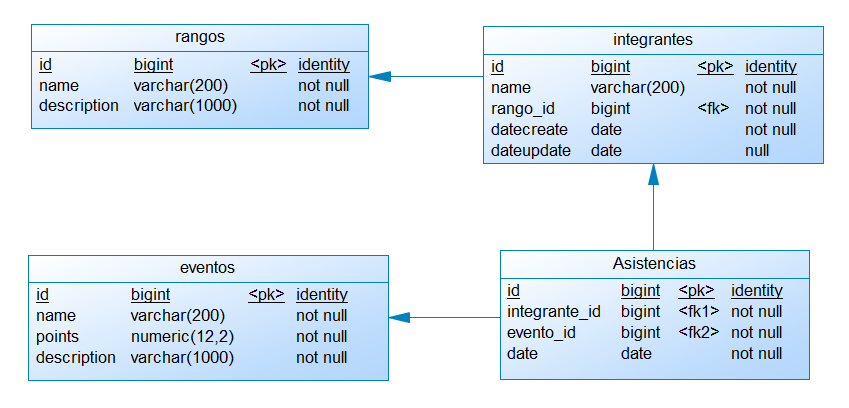
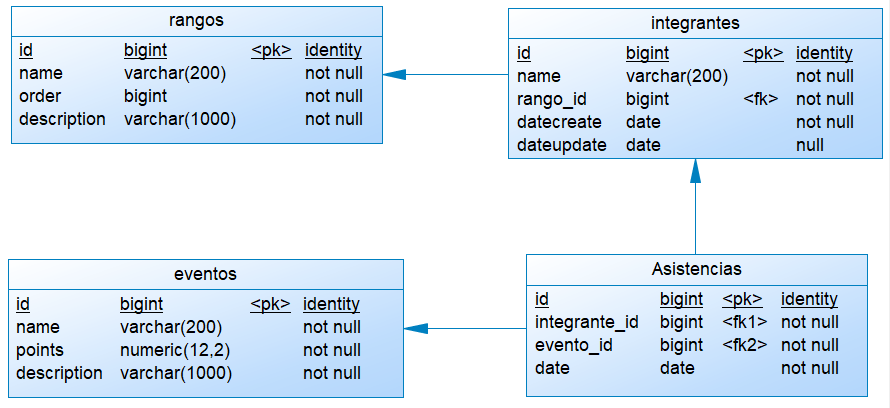
UPDATED Controllers/asistenciaController.py UPDATED Controllers/integranteController.py UPDATED Controllers/rangoController.py UPDATED Helpers/helpers.py UPDATED Models/rangoModel.py UPDATED SQL/avalon-lite.sql UPDATED SQL/avalon.pdm UPDATED SQL/avalon.sql UPDATED SQL/data.sql UPDATED SQL/db_diagram
Modificaciones realizadas para habilitar nueva columna "order" en
la tabla rangos de la base de datos.

Changed region(s): [[0.0, 0.0, 1.0, 0.4706], [0.0, 0.6176, 0.49, 1.0], [0.5819, 0.5882, 0.98, 0.9706]]

diff --git a/Helpers/helpers.py b/Helpers/helpers.py
@@ -145,6 +145,7 @@ class Helpers:
                 "Integrante" : "integrante_name",
                 #"Rango ID" : "integrante_rango_id",
                 #"Rango" : "integrante_rango_name",
+                #"Orden" : "integrante_rango_order",
                 #"Descripción Rango" : "integrante_rango_description",
                 #"Fecha de creación Integrante" : "integrante_datecreate",
                 #"Fecha de modificación Integrante" : "integrante_dateupdate",
@@ -167,6 +168,7 @@ class Helpers:
                 "Nombre" : "name",
                 #"Rango ID" : "rango_id",
                 "Rango" : "rango_name",
+                #"Orden Rango" : "rango_order",
                 #"Descripción Rango" : "rango_description",
                 "Fecha de creación" : "datecreate",
                 "Fecha de modificación" : "dateupdate"
@@ -175,6 +177,7 @@ class Helpers:
             structCtrl[nameCtrl] = {
                 "Id" : "id",
                 "Nombre" : "name",
+                "Orden" : "order",
                 "Descripción" : "description"
             }
         if targets:
@@ -222,6 +225,7 @@ class Helpers:
         elif nameCtrl == "rango":
             structCtrl[nameCtrl] = {"create" : "name"}
             structTargets["name"] = {"type" : str, "fk" : False, "alias" : "Nombre"}
+            structTargets["order"] = {"type" : int, "fk" : False, "alias" : "Orden"}
             structTargets["description"] = {"type" : str, "fk" : False, "alias" : "Descripción"}
         return {"controller" : structCtrl, "targets" : structTargets}
 
@@ -264,11 +268,13 @@ class Helpers:
             if update == "name":
                 structCtrl[nameCtrl] = {"update" : update}
                 structTargets["name"] = {"type" : str, "fk" : False, "alias" : "Nombre"}
+                structTargets["order"] = {"type" : int, "fk" : False, "alias" : "Orden"}
                 structTargets["description"] = {"type" : str, "fk" : False, "alias" : "Descripción"}
             elif update == "id":
                 structCtrl[nameCtrl] = {"update" : update}
                 structTargets["id"] = {"type" : int, "fk" : False, "alias" : "ID"}
                 structTargets["name"] = {"type" : str, "fk" : False, "alias" : "Nombre"}
+                structTargets["order"] = {"type" : int, "fk" : False, "alias" : "Orden"}
                 structTargets["description"] = {"type" : str, "fk" : False, "alias" : "Descripción"}
         return {"controller" : structCtrl, "targets" : structTargets}
 

diff --git a/Services/asistenciaService.py b/Services/asistenciaService.py
@@ -14,6 +14,7 @@ class AsistenciaService:
         "SELECT "\
             "r.id AS integrante_rango_id, "\
             "r.name AS integrante_rango_name, "\
+            "r.order AS integrante_rango_order, "\
             "r.description AS integrante_rango_description, "\
             "i.id as integrante_id, "\
             "i.name AS integrante_name, "\
@@ -41,7 +42,7 @@ class AsistenciaService:
             data = self.__db.execute_query(f"{self.__selectQuery} WHERE a.date BETWEEN ? AND ? AND a.integrante_id = ? AND a.evento_id = ?",
                   (target["date_1"], target["date_2"], target["integrante_id"], target["evento_id"],))
         elif "integrante_id" in target and "evento_id" in target:
-            data = self.__db.execute_query(f"{self.__selectQuery} WHERE a.integrante_id = ? AND a.evento_id = ?", 
+            data = self.__db.execute_query(f"{self.__selectQuery} WHERE a.integrante_id = ? AND a.evento_id = ?",
                   (target["integrante_id"], target["evento_id"],))
         elif "integrante_id" in target and "date_1" in target and "date_2" in target:
             data = self.__db.execute_query(f"{self.__selectQuery} WHERE a.date BETWEEN ? AND ? AND a.integrante_id = ?",
@@ -61,10 +62,10 @@ class AsistenciaService:
         if isinstance(data, list):
             asistencias = []
             for row in data:
-                rango = RangoModel(row[0], row[1], row[2])
-                integrante = IntegranteModel(row[3], row[4], rango, row[5], row[6])
-                evento = EventoModel(row[7], row[8], row[9], row[10])
-                asistencia = AsistenciaModel(row[11], integrante, evento, row[12])
+                rango = RangoModel(row[0], row[1], row[2], row[3])
+                integrante = IntegranteModel(row[4], row[5], rango, row[6], row[7])
+                evento = EventoModel(row[8], row[9], row[10], row[11])
+                asistencia = AsistenciaModel(row[12], integrante, evento, row[13])
                 asistencias.append(asistencia)
             return asistencias
         elif data:

diff --git a/Services/rangoService.py b/Services/rangoService.py
@@ -7,7 +7,7 @@ from rangoModel import RangoModel
 class RangoService:
     def __init__(self, db : Database):
         self.__db = db
-        self.__selectQuery = "SELECT * FROM rangos"
+        self.__selectQuery = "SELECT * FROM rangos ORDER BY 'order' ASC"
 
     def select(self, target = None):
         self.__db.start_connection()
@@ -23,7 +23,7 @@ class RangoService:
         if isinstance(data, list):
             rangos = []
             for row in data:
-                rango = RangoModel(row[0], row[1], row[2])
+                rango = RangoModel(row[0], row[1], row[2], row[3])
                 rangos.append(rango)
             return rangos
         elif data:
@@ -34,9 +34,10 @@ class RangoService:
     def insert(self, rango : RangoModel):
         self.__db.start_connection()
         data = self.__db.execute_query("INSERT INTO "\
-        "rangos (name, description) "\
-        "VALUES (?, ?)",
+        "rangos (name, order, description) "\
+        "VALUES (?, ?, ?)",
         (rango.getName(),
+        rango.getOrder(),
         rango.getDescription(),))
         self.__db.close_connection()
         return data
@@ -44,9 +45,10 @@ class RangoService:
     def update(self, rango: RangoModel):
         self.__db.start_connection()
         data = self.__db.execute_query("UPDATE rangos "\
-        "SET name = ?, description = ? "\
+        "SET name = ?, order = ?, description = ? "\
         "WHERE id = ?",
         (rango.getName(),
+        rango.getOrder(),
         rango.getDescription(),
         rango.getId(),))
         self.__db.close_connection()

diff --git a/Controllers/rangoController.py b/Controllers/rangoController.py
@@ -19,6 +19,7 @@ class RangoController:
                     {
                         "id" : rango.getId(),
                         "name" : rango.getName(),
+                        "order" : rango.getOrder(),
                         "description" : rango.getDescription()
                     })
             return data
@@ -27,16 +28,16 @@ class RangoController:
         else:
             return False
 
-    def createRango(self, name, description):
-        rango = RangoModel(None, name, description)
+    def createRango(self, name, order, description):
+        rango = RangoModel(None, name, order, description)
         result = self.__service.insert(rango)
         if result:
             return True
         else:
             return False
 
-    def updateRango(self, id, name, description):
-        rango = RangoModel(id, name, description)
+    def updateRango(self, id, name, order, description):
+        rango = RangoModel(id, name, order, description)
         result = self.__service.update(rango)
         if result:
             return True

diff --git a/Services/integranteService.py b/Services/integranteService.py
@@ -12,6 +12,7 @@ class IntegranteService:
         "SELECT "\
             "r.id AS rango_id, "\
             "r.name AS rango_name, "\
+            "r.order AS rango_order, "\
             "r.description AS rango_description, "\
             "i.id, "\
             "i.name, "\
@@ -39,8 +40,8 @@ class IntegranteService:
         if isinstance(data, list):
             integrantes = []
             for row in data:
-                rango = RangoModel(row[0], row[1], row[2])
-                integrante = IntegranteModel(row[3], row[4], rango, row[5], row[6])
+                rango = RangoModel(row[0], row[1], row[2], row[3])
+                integrante = IntegranteModel(row[4], row[5], rango, row[6], row[7])
                 integrantes.append(integrante)
             return integrantes
         elif data:

diff --git a/Controllers/asistenciaController.py b/Controllers/asistenciaController.py
@@ -24,6 +24,7 @@ class AsistenciaController:
                         "integrante_name" : asistencia.getIntegrante().getName(),
                         "integrante_rango_id" : asistencia.getIntegrante().getRango().getId(),
                         "integrante_rango_name" : asistencia.getIntegrante().getRango().getName(),
+                        "integrante_rango_order" : asistencia.getIntegrante().getRango().getOrder(),
                         "integrante_rango_description" : asistencia.getIntegrante().getRango().getDescription(),
                         "integrante_datecreate" : asistencia.getIntegrante().getDateCreate(),
                         "integrante_dateupdate" : asistencia.getIntegrante().getDateUpdate(),

diff --git a/Controllers/integranteController.py b/Controllers/integranteController.py
@@ -22,6 +22,7 @@ class IntegranteController:
                         "name" : integrante.getName(),
                         "rango_id" : integrante.getRango().getId(),
                         "rango_name" : integrante.getRango().getName(),
+                        "rango_order" : integrante.getRango().getOrder(),
                         "rango_description" : integrante.getRango().getDescription(),
                         "datecreate" : integrante.getDateCreate(),
                         "dateupdate" : integrante.getDateUpdate()

diff --git a/Models/rangoModel.py b/Models/rangoModel.py
@@ -1,7 +1,8 @@
 class RangoModel:
-    def __init__(self, id, name, description):
+    def __init__(self, id, name, order, description):
         self.__id = id
         self.__name = name
+        self.__order = order
         self.__description = description
 
     def getId(self):
@@ -9,6 +10,9 @@ class RangoModel:
 
     def getName(self):
         return self.__name
+
+    def getOrder(self):
+        return self.__order
 
     def getDescription(self):
         return self.__description
